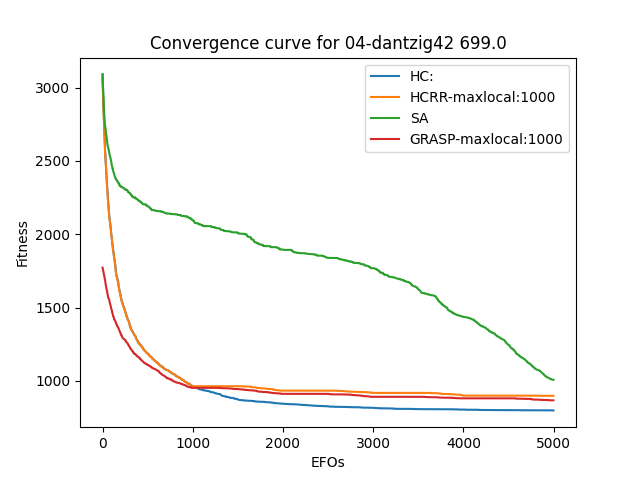
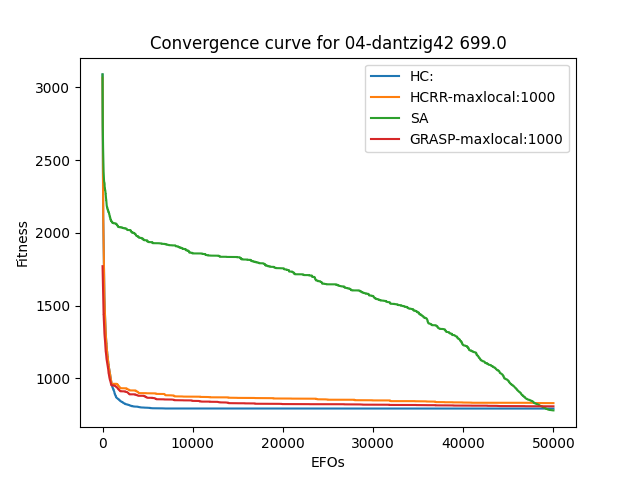
Evaluacion fitness TSP

diff --git a/Problema-viajero-TSP/main.py b/Problema-viajero-TSP/main.py
@@ -15,7 +15,7 @@ max_efos = 50000
 repetitions = 31
 
 # Afinamiento de parametros
-max_local = 1500
+max_local = 100
 
 myP1 = tsp(myPath + "01-easy5.txt")
 myP2 = tsp(myPath + "02-ulysses16.txt")
